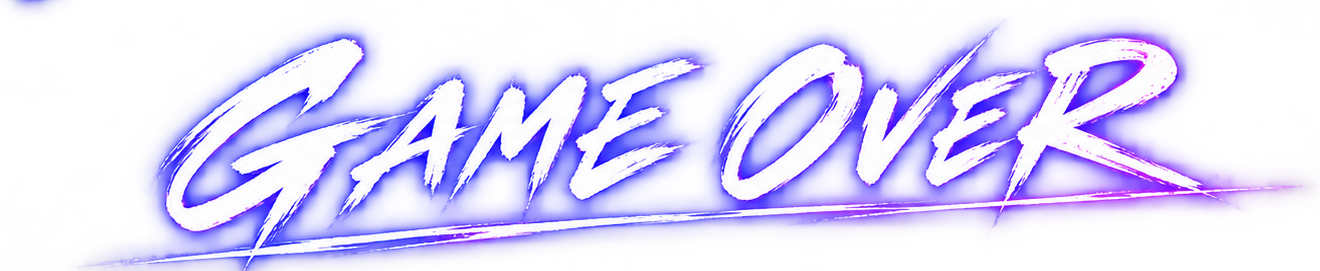
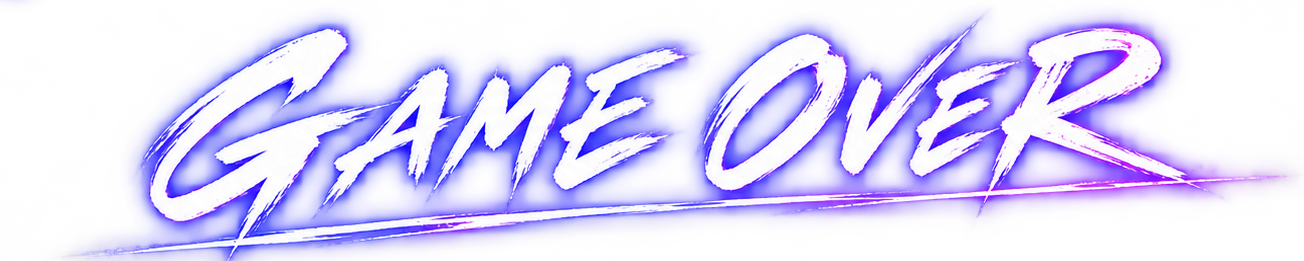
feat: verify neon countdown behavior and polish simple GAME OVER art

diff --git a/remake/tools/build_continue_art.py b/remake/tools/build_continue_art.py
@@ -58,7 +58,7 @@ def main():
     atlas_path = SOURCE.parent / "neon-reference-20261011/neon-atlas-original.png"
     if atlas_path.exists():
         atlas = Image.open(atlas_path).convert("RGBA")
-        for name, y0, y1 in [("neon_title", 0, 340), ("neon_game_over", 340, 611),
+        for name, y0, y1 in [("neon_title", 0, 340), ("neon_game_over", 350, 611),
                              ("neon_retry_frame", 611, 847), ("neon_quit_frame", 847, 1086)]:
             row = atlas.crop((0, y0, atlas.width, y1))
             box = row.getchannel("A").point(lambda a: 255 if a >= 24 else 0).getbbox()

diff --git a/remake/README.md b/remake/README.md
@@ -41,15 +41,15 @@ python3 remake/tools/serve_preview.py --port 8123
 
 大会のコンティニューだけを確認する場合は `http://127.0.0.1:8123/remake/continue-preview.html`。
 スミさん3パターンと恋人6人の20秒演出・戻る／諦めるの反応を、本編と同じ立ち絵・描画で確認できる。
-画面上部に「コンティニュー？ 15」のように見出しと数字を横並びで中央配置。人物は顔の大きさを保って画面下端まで映し、1行テロップを少し上へ、その下に「大会に戻る」「諦める」の2択ボタンを置く。ボタン下には24pxの余白。背景は紫の煙。可決スタンプと時間切れのGAME OVERには生成画像を使用。
+2026-10-11の参考画像を本編へ採用。暗いスモークステージとスポット光、斜めの筆文字「コンティニューする？」、右上の円形HUDを配置。人物を中央から画面下端まで映し、背後の薄い巨大数字が750→1800pxへ迫る。下部の1行テロップに細いライン、金／紫の鋭角ボタンを合わせる。数字とボタン文字は動的な実テキスト。
 テロップは1行ずつ文字が弾んで出て、出るたびに日常会話と同じ話者の声が鳴る。押下後の反応も1行ずつ。
-台詞をタップすると全文表示、もう一度タップすると次へ。カウントは選択中だけ見出しのすぐ右に背景・枠・傾きなしの数字で表示し、GAME OVER時には消してロゴだけを中央に出す。
+台詞をタップすると全文表示、もう一度タップすると次へ。円形HUDの数字とリングは20秒の期限に連動。残り5秒はピンクの光を強め、GAME OVER時はHUD・背面数字・2択を消して青紫の筆文字ロゴだけを中央へ表示する。
 20秒でGAME OVERを表示してタイトルへ戻り、期限内の「大会に戻る」は反応後に大会冒頭へ戻る。字幕送りは期限に影響しない。
 プレビューはセーブに書き込まない。[V4仕様と検証](../docs/continue_button_reactions_sfx_20261010.md)。
 
-プレビューの「配置」では、王道・下にボタン（採用中）／王道＋迫る背面カウント（実験）／上にボタン（実験）／上ボタン＋背面カウント（実験）の4版を比較できる。
+プレビューの既定は「筆文字・円形HUD（採用中）」と「暗いステージ（採用中）」。過去の王道／王道＋迫る数字／上段ボタン／上段ボタン＋背面カウントも比較用に保持する。
 実験版は「コンティニュー？ 15 ［する］［諦める］」を上部へ集め、下のセリフを大きくする。背面カウント版は人物の後ろの薄い数字が残り時間に沿って拡大する。動き軽減ではサイズを固定。「背景」で紫の煙と、添付画像を参考に生成した暗いステージを切り替えられる。
-`continue-preview.html?layout=top` で上段版、`continue-preview.html?layout=back-count&background=stage` で新比較版を選んだ状態から確認できる。本編の配置・背景への採用は未決。GAME OVERの新しい煙と金の透過ロゴ・数字非表示は本編にも反映する。
+`continue-preview.html?layout=neon&background=stage` で本編と同じ版、`?layout=top&background=purple` で上段比較版、`?layout=back-count&background=stage` で上段背面カウント版を選べる。紫背景も比較用に残す。背景タブでは時計・煙・光を停止し、動き軽減では数字の拡大と装飾アニメーションを止める。
 添付の王道構図に合わせた下段2択のまま、かなり大きい数字が迫る版は `continue-preview.html?layout=bottom-back-count&background=stage`。背面の数字は750→1800pxに拡大する。王道そのままの `?layout=bottom&background=stage` と比較できる。
 
 `data/` と `assets/` を相対パス（`../data/`・`../assets/`）で直接読むので、

diff --git a/docs/continue_button_reactions_sfx_20261010.md b/docs/continue_button_reactions_sfx_20261010.md
@@ -1,11 +1,25 @@
 # CONTINUE演出 V4 — ボタン反応台詞・カウントSE・演出計画
 
-更新日: 2026-10-10
-状態: **V4実装・追加要望の検証済み（2026-10-10）。現行仕様は下記。**
+更新日: 2026-10-11
+状態: **参考画像に合わせた筆文字・円形HUD版を本編へ採用。現行仕様はCV35〜46。以下の古い節は当時の仕様／比較版の記録。**
 前提: `docs/continue_voice_music_premium_20261010.md`、`docs/sumi_continue_20261010.md`。
 既存実装: `remake/js/chapters/gameover.js`、`remake/js/chapters/continue-premium.js`、`remake/js/core/audio.js`、`remake/css/daily.css`、`remake/continue-preview.html`。
 
-## CV27〜34（2026-10-10 追加・比較版と最新の終了表示）
+## CV35〜46（2026-10-11・現行の採用デザイン）
+
+- 最新の添付参考画像を完成形とする。暗いステージ背景とスモーク・上からのスポット光を採用し、従来の紫背景・丸角ボタン・極太ゴシック見出しを更新。
+- 見出しは **「コンティニューする？」**。生成した透過の筆文字を斜めに配置し、白〜青紫の光とシャープな斜線を添える。見出しの別位置比較はオーナー「決まった」により参考位置で確定。
+- **右上の円形HUD**へ数字を戻す。数字はライブテキスト、リングはSVG。残り20秒を同じ時計から更新し、背面の数字は1000px・濃さ10.5%・0.75→1.80倍で迫る。字幕送りで期限を早めない。
+- 中央の正規人物・表情と顔高256pxを保持。表示枠は112〜720px。セリフは32pxの1行、左右の細いライン、金／紫の鋭角ボタン。ボタン文字・矢印はコードで重ね、枠画像へ焼き込まない。最長行を強調しても間隔が8px以上、ボタン下は21px以上。
+- 1920×1080の構図を本編の1280×720へ2/3で配置し、既存ステージの一様な拡縮で1080p・720p・スマホへ対応。共通の画面サイズや他画面のCSSは変更しない。
+- タイトルの光を伴う登場、ゆっくりした煙と光の揺らぎ、少数の粒、秒ごとのHUD更新、残り5秒のピンクの緊張感、ホバー／キーボード／選択時の発光、フェードを実装。新しい描画ループを増やさず、既存の70ms時計とCSSを使う。新素材4枚の表示用WebPは合計約0.53MB。
+- タブ非表示では時計・煙・光を停止。動き軽減では装飾と数字の拡大を止め、数字とリングの残量だけ更新する。
+- **シンプルなGAME OVER**は同じ白〜青紫の筆文字と細い斜線。数字・HUD・選択肢・人物を消してロゴだけを中央へ表示し、従来どおり1.6秒の表示＋0.24秒の暗転後にタイトルへ自動復帰。
+- 全9台本・18分岐、反応中の台詞・抽選・音・期限・大会冒頭への再挑戦・セーブ保持は維持。過去4版はプレビューの比較用として保持する。
+
+[生成原画・指示・完成スクリーンショット・表示検証](../asset_sources/ui/continue-v4-20261010/README.md)。本編と同じプレビューは `continue-preview.html?layout=neon&background=stage`。
+
+## CV27〜34（2026-10-10・当時の仕様と比較版）
 
 - **上に2択を置く比較版**をプレビューに追加。「コンティニュー？ 15 ［する］［諦める］」の横並びで、下は人物とセリフに使う。本編の既定はCV22〜26の下段ボタン版。オーナーが採用を決めるまで上段版は比較用とする。
 - 比較版のセリフは42px→48pxの1行にし、表示領域の左右余白を36pxへ広げる。下の選択肢を外して人物の腰側を見せる。セリフをタップして全文表示・次の行へ進め、選択後の「進む」で反応を送れる。

diff --git a/asset_sources/ui/continue-v4-20261010/README.md b/asset_sources/ui/continue-v4-20261010/README.md
@@ -1,4 +1,18 @@
-# CONTINUE V4 表示確認（2026-10-10）
+# CONTINUE 表示確認（最新: 2026-10-11）
+
+## CV35〜46 参考画像の筆文字・円形HUD・鋭角ボタンを本編採用
+
+最新の添付参考を完成形として再構築。斜めの「コンティニューする？」、右上の実時計HUD、暗いスモークステージ、中央の正規人物、迫る巨大数字、線付きの1行セリフ、金と紫の鋭角ボタン。GAME OVERは同じ筆文字と青紫の発光でシンプルに中央表示。カウントとボタン文字はライブUIで、素材へ焼き込んでいない。
+
+- [完成・アゲハ1080p](neon-reference-20261011/neon-ageha-1080.png) / [スミさん720p](neon-reference-20261011/neon-sumi-720.png) / [スマホ横持ち](neon-reference-20261011/neon-ageha-phone.png)
+- [残り5秒](neon-reference-20261011/neon-ageha-5.png) / [迫る残り1秒](neon-reference-20261011/neon-ageha-1.png) / [シンプルなGAME OVER](neon-reference-20261011/neon-game-over.png)
+- [初回実画面](neon-reference-20261011/iteration-1.png)から、タイトルを右へ58px・幅824→752px、セリフ34→32px、ボタンとの間隔を修正。長い強調行でも8px以上、ボタン下21px以上を確認。終了ロゴに前行の微小な光が混じらないよう切出し境界も調整。
+- [透過アトラス原画](neon-reference-20261011/neon-atlas-original.png) / [完全な生成指示](neon-reference-20261011/neon-atlas.prompt.txt) / [実参照・SHA256・変換記録](neon-reference-20261011/generation.json)
+- [実画面の座標・素材読込記録](neon-reference-20261011/verification.json)。再取得は `node asset_sources/ui/continue-v4-20261010/neon-reference-20261011/capture.mjs`。
+
+生成原画は正しい日本語見出し・GAME OVER・文字なしの2色フレームのみ。`build_continue_art.py`で行単位に機械的に切り出し、色や筆跡を変えずにPNG／WebPへ保存。暗いステージは以前の[生成原画](generated/backdrop-stage.png)を採用。煙・スポット光・粒・HUD・斜線・ボタンの選択発光はコードで動かす。1920×1080の構図を既存ステージへ縮尺して他画面を維持する。
+
+既定のプレビューは `continue-preview.html?layout=neon&background=stage`。以下の画像・紫背景・旧ロゴ・比較版は制作時点の記録として保持し、本編の既定を上書きしない。
 
 ## CV27〜34 王道配置・上部ボタン・背面カウント・暗いステージの比較版
 

diff --git a/docs/asset_gen_prompts.md b/docs/asset_gen_prompts.md
@@ -1,5 +1,7 @@
 # 画像生成プロンプト集（codex用）— シーシャ作りパート＋立ち絵
 
+> 2026-10-11 CV35〜46: 添付の完成形を採用してCONTINUEを刷新。[透過アトラス原画](../asset_sources/ui/continue-v4-20261010/neon-reference-20261011/neon-atlas-original.png)・[完全な生成指示](../asset_sources/ui/continue-v4-20261010/neon-reference-20261011/neon-atlas.prompt.txt)・[実参照とSHA256](../asset_sources/ui/continue-v4-20261010/neon-reference-20261011/generation.json)。指定の「コンティニューする？」と「GAME OVER」だけを静的文字として生成し、数字・ボタン文言・人物は焼き込まない。金／紫の文字なし鋭角フレームを生成し、機械的な切出しのみでPNGとWebPへ。以前の暗いステージを本編へ採用し、SVGのHUD・CSSの光と煙を重ねる。[完成画面と改善記録](../asset_sources/ui/continue-v4-20261010/README.md)。以下の古い採用状態は当時の記録。
+
 > 2026-10-10 CV30・CV32: CONTINUEの比較版に[煙と金のGAME OVERロゴ](../asset_sources/ui/continue-v4-20261010/generated/game-over-smoke.png)と[暗いステージ背景](../asset_sources/ui/continue-v4-20261010/generated/backdrop-stage.png)を新規生成。[ロゴの完全な指示](../asset_sources/ui/continue-v4-20261010/generated/game-over-smoke.prompt.txt)・[背景の完全な指示](../asset_sources/ui/continue-v4-20261010/generated/backdrop-stage.prompt.txt)・[生成記録と実画面](../asset_sources/ui/continue-v4-20261010/README.md)。ロゴだけ指定文字を許可。背景の人物・台詞・数字はコードで表示する。紫背景と通常配置は本編の既定のまま、試用背景・上段ボタン・拡大する背面カウントはプレビューで比較。
 
 > 2026-10-10 SF02: 蒸らし中に目を閉じて息を整えるはじめの[生成指示](../asset_sources/steam-focus-20261010/hajime-wait-prompt.txt)・[実参照と原画SHA](../asset_sources/steam-focus-20261010/generation.json)を保存。採用済みの帽子・パーカー・携帯中のマイチップと画風を維持し、シーシャ台やホースは人物画像へ追加しない。[実装画面・検品記録](../asset_sources/steam-focus-20261010/README.md)。
